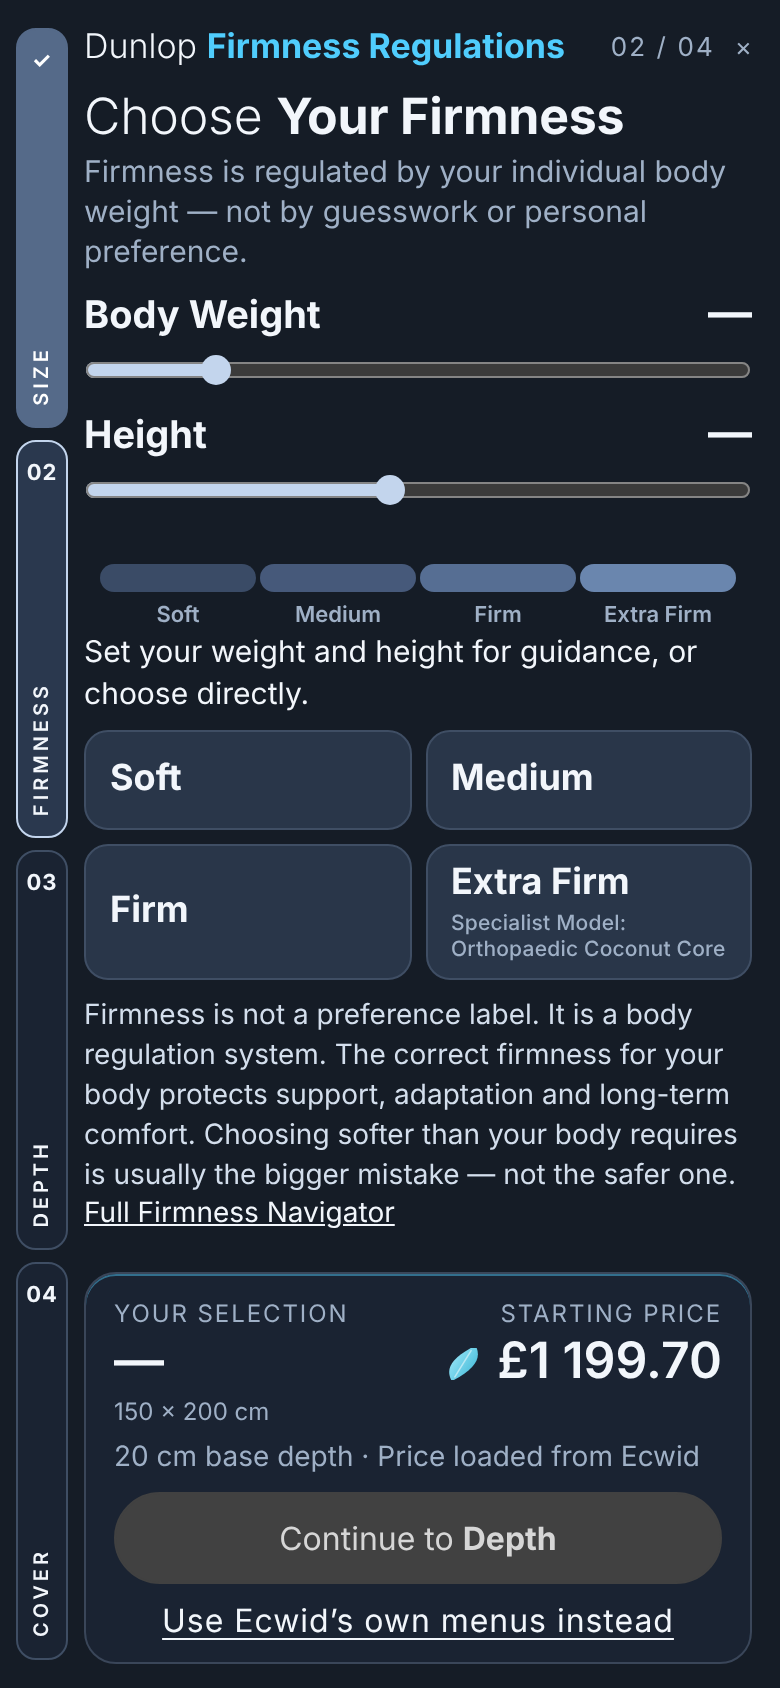
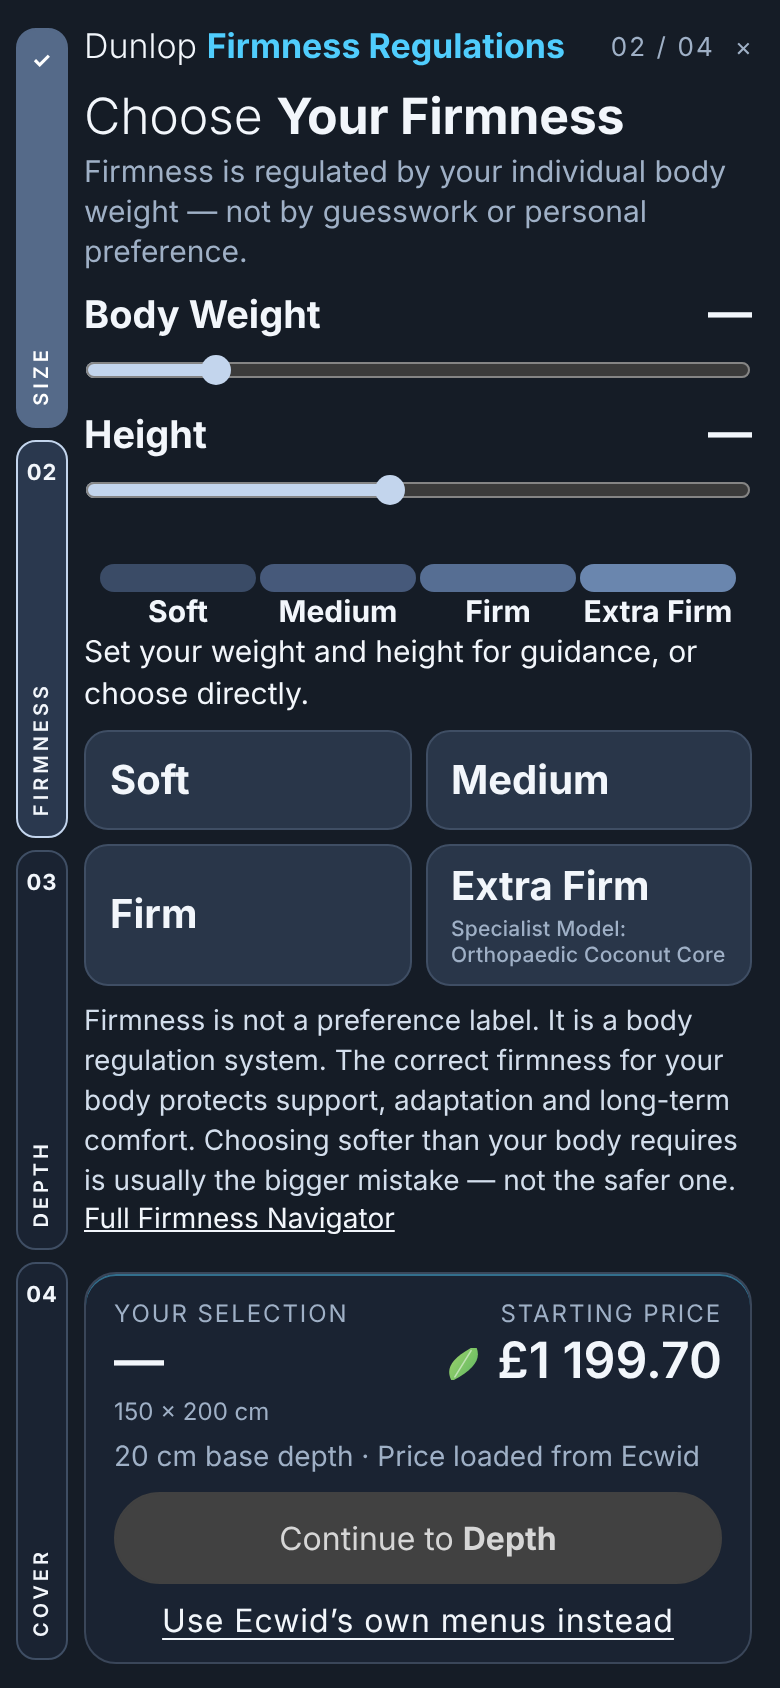
Firmness: bold, larger scale labels and cards; description journey shots (preview only)
Claude-Session: https://claude.ai/code/session_012wczzzviEvo3aPrXDTfwk1

diff --git a/experience-tv/docs/mobile/premium/preview/graphite-gradient.html b/experience-tv/docs/mobile/premium/preview/graphite-gradient.html
@@ -45,7 +45,7 @@
 /* firmness */
 .gx-fg { margin: 0 0 6px; } .gx-fg .r { display: flex; justify-content: space-between; align-items: baseline; font-size: 15px; color: var(--mut); } .gx-fg .r b { font-size: 22px; color: var(--ink); font-weight: 600; }
 .gx input[type=range] { width: 100%; height: 30px; accent-color: #C3D5ED; background: transparent; margin: 0; }
-.gx-scale { width: 100%; height: 44px; display: block; margin: 0 0 2px; } .gx-scale text { font: 600 11px var(--f); fill: var(--mut); text-anchor: middle; }
+.gx-scale { width: 100%; height: 44px; display: block; margin: 0 0 2px; } .gx-scale text { font: 700 15px var(--f); fill: var(--ink); text-anchor: middle; }
 .gx-guide { margin: 2px 0 8px; font-size: 15px; line-height: 1.35; } .gx-guide b { color: #fff; }
 .gx-2 { display: grid; grid-template-columns: 1fr 1fr; gap: 7px; }
 .gx-card { position: relative; min-height: 50px; border-radius: 12px; border: 1.5px solid var(--chip-line); background: var(--chip); font-size: 17px; font-weight: 600; text-align: left; padding: 8px 12px; }
@@ -85,10 +85,10 @@
 .gx h2.fw { font-weight: 300; } .gx h2.fw b { font-weight: 700; }
 .gx-fg .r label { font-size: 19px; font-weight: 700; color: var(--ink); }
 .gx-fg .r b { font-weight: 700; }
-.gx-2 .gx-card { font-weight: 700; font-size: 18px; }
+.gx-2 .gx-card { font-weight: 700; font-size: 20px; }
 .gx-sel .lf { width: 22px; height: 16px; vertical-align: -1px; margin-right: 6px; }
-@media (max-height: 780px) { .gx-fg .r label { font-size: 17px; } .gx-2 .gx-card { font-size: 16.5px; } .gx-top b.fr { font-size: 16px; } }
-@media (max-height: 690px) { .gx-fg .r label { font-size: 15.5px; } .gx-2 .gx-card { font-size: 15px; } .gx-top b.fr { font-size: 14.5px; } .gx-sel .lf { width: 18px; height: 13px; } }
+@media (max-height: 780px) { .gx-fg .r label { font-size: 17px; } .gx-2 .gx-card { font-size: 18px; } .gx-top b.fr { font-size: 16px; } }
+@media (max-height: 690px) { .gx-fg .r label { font-size: 15.5px; } .gx-2 .gx-card { font-size: 16.5px; } .gx-top b.fr { font-size: 14.5px; } .gx-sel .lf { width: 18px; height: 13px; } }
 
 /* turquoise accent, kept small: a hairline on the dock edge (the steps stay as approved) */
 .gx-dock--firm { box-shadow: inset 0 1px 0 rgba(80, 205, 253, .45); }

diff --git a/experience-tv/docs/mobile/premium/preview/graphite-hybrid.html b/experience-tv/docs/mobile/premium/preview/graphite-hybrid.html
@@ -45,7 +45,7 @@
 /* firmness */
 .gx-fg { margin: 0 0 6px; } .gx-fg .r { display: flex; justify-content: space-between; align-items: baseline; font-size: 15px; color: var(--mut); } .gx-fg .r b { font-size: 22px; color: var(--ink); font-weight: 600; }
 .gx input[type=range] { width: 100%; height: 30px; accent-color: #C3D5ED; background: transparent; margin: 0; }
-.gx-scale { width: 100%; height: 44px; display: block; margin: 0 0 2px; } .gx-scale text { font: 600 11px var(--f); fill: var(--mut); text-anchor: middle; }
+.gx-scale { width: 100%; height: 44px; display: block; margin: 0 0 2px; } .gx-scale text { font: 700 15px var(--f); fill: var(--ink); text-anchor: middle; }
 .gx-guide { margin: 2px 0 8px; font-size: 15px; line-height: 1.35; } .gx-guide b { color: #fff; }
 .gx-2 { display: grid; grid-template-columns: 1fr 1fr; gap: 7px; }
 .gx-card { position: relative; min-height: 50px; border-radius: 12px; border: 1.5px solid var(--chip-line); background: var(--chip); font-size: 17px; font-weight: 600; text-align: left; padding: 8px 12px; }
@@ -85,10 +85,10 @@
 .gx h2.fw { font-weight: 300; } .gx h2.fw b { font-weight: 700; }
 .gx-fg .r label { font-size: 19px; font-weight: 700; color: var(--ink); }
 .gx-fg .r b { font-weight: 700; }
-.gx-2 .gx-card { font-weight: 700; font-size: 18px; }
+.gx-2 .gx-card { font-weight: 700; font-size: 20px; }
 .gx-sel .lf { width: 22px; height: 16px; vertical-align: -1px; margin-right: 6px; }
-@media (max-height: 780px) { .gx-fg .r label { font-size: 17px; } .gx-2 .gx-card { font-size: 16.5px; } .gx-top b.fr { font-size: 16px; } }
-@media (max-height: 690px) { .gx-fg .r label { font-size: 15.5px; } .gx-2 .gx-card { font-size: 15px; } .gx-top b.fr { font-size: 14.5px; } .gx-sel .lf { width: 18px; height: 13px; } }
+@media (max-height: 780px) { .gx-fg .r label { font-size: 17px; } .gx-2 .gx-card { font-size: 18px; } .gx-top b.fr { font-size: 16px; } }
+@media (max-height: 690px) { .gx-fg .r label { font-size: 15.5px; } .gx-2 .gx-card { font-size: 16.5px; } .gx-top b.fr { font-size: 14.5px; } .gx-sel .lf { width: 18px; height: 13px; } }
 
 /* turquoise accent, kept small: a hairline on the dock edge (the steps stay as approved) */
 .gx-dock--firm { box-shadow: inset 0 1px 0 rgba(80, 205, 253, .45); }

diff --git a/experience-tv/docs/mobile/premium/preview/graphite-light.html b/experience-tv/docs/mobile/premium/preview/graphite-light.html
@@ -45,7 +45,7 @@
 /* firmness */
 .gx-fg { margin: 0 0 6px; } .gx-fg .r { display: flex; justify-content: space-between; align-items: baseline; font-size: 15px; color: var(--mut); } .gx-fg .r b { font-size: 22px; color: var(--ink); font-weight: 600; }
 .gx input[type=range] { width: 100%; height: 30px; accent-color: #C3D5ED; background: transparent; margin: 0; }
-.gx-scale { width: 100%; height: 44px; display: block; margin: 0 0 2px; } .gx-scale text { font: 600 11px var(--f); fill: var(--mut); text-anchor: middle; }
+.gx-scale { width: 100%; height: 44px; display: block; margin: 0 0 2px; } .gx-scale text { font: 700 15px var(--f); fill: var(--ink); text-anchor: middle; }
 .gx-guide { margin: 2px 0 8px; font-size: 15px; line-height: 1.35; } .gx-guide b { color: #fff; }
 .gx-2 { display: grid; grid-template-columns: 1fr 1fr; gap: 7px; }
 .gx-card { position: relative; min-height: 50px; border-radius: 12px; border: 1.5px solid var(--chip-line); background: var(--chip); font-size: 17px; font-weight: 600; text-align: left; padding: 8px 12px; }
@@ -85,10 +85,10 @@
 .gx h2.fw { font-weight: 300; } .gx h2.fw b { font-weight: 700; }
 .gx-fg .r label { font-size: 19px; font-weight: 700; color: var(--ink); }
 .gx-fg .r b { font-weight: 700; }
-.gx-2 .gx-card { font-weight: 700; font-size: 18px; }
+.gx-2 .gx-card { font-weight: 700; font-size: 20px; }
 .gx-sel .lf { width: 22px; height: 16px; vertical-align: -1px; margin-right: 6px; }
-@media (max-height: 780px) { .gx-fg .r label { font-size: 17px; } .gx-2 .gx-card { font-size: 16.5px; } .gx-top b.fr { font-size: 16px; } }
-@media (max-height: 690px) { .gx-fg .r label { font-size: 15.5px; } .gx-2 .gx-card { font-size: 15px; } .gx-top b.fr { font-size: 14.5px; } .gx-sel .lf { width: 18px; height: 13px; } }
+@media (max-height: 780px) { .gx-fg .r label { font-size: 17px; } .gx-2 .gx-card { font-size: 18px; } .gx-top b.fr { font-size: 16px; } }
+@media (max-height: 690px) { .gx-fg .r label { font-size: 15.5px; } .gx-2 .gx-card { font-size: 16.5px; } .gx-top b.fr { font-size: 14.5px; } .gx-sel .lf { width: 18px; height: 13px; } }
 
 /* turquoise accent, kept small: a hairline on the dock edge (the steps stay as approved) */
 .gx-dock--firm { box-shadow: inset 0 1px 0 rgba(80, 205, 253, .45); }

diff --git a/experience-tv/docs/mobile/premium/preview/graphite-turquoise.html b/experience-tv/docs/mobile/premium/preview/graphite-turquoise.html
@@ -45,7 +45,7 @@
 /* firmness */
 .gx-fg { margin: 0 0 6px; } .gx-fg .r { display: flex; justify-content: space-between; align-items: baseline; font-size: 15px; color: var(--mut); } .gx-fg .r b { font-size: 22px; color: var(--ink); font-weight: 600; }
 .gx input[type=range] { width: 100%; height: 30px; accent-color: #C3D5ED; background: transparent; margin: 0; }
-.gx-scale { width: 100%; height: 44px; display: block; margin: 0 0 2px; } .gx-scale text { font: 600 11px var(--f); fill: var(--mut); text-anchor: middle; }
+.gx-scale { width: 100%; height: 44px; display: block; margin: 0 0 2px; } .gx-scale text { font: 700 15px var(--f); fill: var(--ink); text-anchor: middle; }
 .gx-guide { margin: 2px 0 8px; font-size: 15px; line-height: 1.35; } .gx-guide b { color: #fff; }
 .gx-2 { display: grid; grid-template-columns: 1fr 1fr; gap: 7px; }
 .gx-card { position: relative; min-height: 50px; border-radius: 12px; border: 1.5px solid var(--chip-line); background: var(--chip); font-size: 17px; font-weight: 600; text-align: left; padding: 8px 12px; }
@@ -85,10 +85,10 @@
 .gx h2.fw { font-weight: 300; } .gx h2.fw b { font-weight: 700; }
 .gx-fg .r label { font-size: 19px; font-weight: 700; color: var(--ink); }
 .gx-fg .r b { font-weight: 700; }
-.gx-2 .gx-card { font-weight: 700; font-size: 18px; }
+.gx-2 .gx-card { font-weight: 700; font-size: 20px; }
 .gx-sel .lf { width: 22px; height: 16px; vertical-align: -1px; margin-right: 6px; }
-@media (max-height: 780px) { .gx-fg .r label { font-size: 17px; } .gx-2 .gx-card { font-size: 16.5px; } .gx-top b.fr { font-size: 16px; } }
-@media (max-height: 690px) { .gx-fg .r label { font-size: 15.5px; } .gx-2 .gx-card { font-size: 15px; } .gx-top b.fr { font-size: 14.5px; } .gx-sel .lf { width: 18px; height: 13px; } }
+@media (max-height: 780px) { .gx-fg .r label { font-size: 17px; } .gx-2 .gx-card { font-size: 18px; } .gx-top b.fr { font-size: 16px; } }
+@media (max-height: 690px) { .gx-fg .r label { font-size: 15.5px; } .gx-2 .gx-card { font-size: 16.5px; } .gx-top b.fr { font-size: 14.5px; } .gx-sel .lf { width: 18px; height: 13px; } }
 
 /* turquoise accent, kept small: a hairline on the dock edge (the steps stay as approved) */
 .gx-dock--firm { box-shadow: inset 0 1px 0 rgba(80, 205, 253, .45); }

diff --git a/experience-tv/docs/mobile/premium/preview/graphite.html b/experience-tv/docs/mobile/premium/preview/graphite.html
@@ -45,7 +45,7 @@
 /* firmness */
 .gx-fg { margin: 0 0 6px; } .gx-fg .r { display: flex; justify-content: space-between; align-items: baseline; font-size: 15px; color: var(--mut); } .gx-fg .r b { font-size: 22px; color: var(--ink); font-weight: 600; }
 .gx input[type=range] { width: 100%; height: 30px; accent-color: #C3D5ED; background: transparent; margin: 0; }
-.gx-scale { width: 100%; height: 44px; display: block; margin: 0 0 2px; } .gx-scale text { font: 600 11px var(--f); fill: var(--mut); text-anchor: middle; }
+.gx-scale { width: 100%; height: 44px; display: block; margin: 0 0 2px; } .gx-scale text { font: 700 15px var(--f); fill: var(--ink); text-anchor: middle; }
 .gx-guide { margin: 2px 0 8px; font-size: 15px; line-height: 1.35; } .gx-guide b { color: #fff; }
 .gx-2 { display: grid; grid-template-columns: 1fr 1fr; gap: 7px; }
 .gx-card { position: relative; min-height: 50px; border-radius: 12px; border: 1.5px solid var(--chip-line); background: var(--chip); font-size: 17px; font-weight: 600; text-align: left; padding: 8px 12px; }
@@ -85,10 +85,10 @@
 .gx h2.fw { font-weight: 300; } .gx h2.fw b { font-weight: 700; }
 .gx-fg .r label { font-size: 19px; font-weight: 700; color: var(--ink); }
 .gx-fg .r b { font-weight: 700; }
-.gx-2 .gx-card { font-weight: 700; font-size: 18px; }
+.gx-2 .gx-card { font-weight: 700; font-size: 20px; }
 .gx-sel .lf { width: 22px; height: 16px; vertical-align: -1px; margin-right: 6px; }
-@media (max-height: 780px) { .gx-fg .r label { font-size: 17px; } .gx-2 .gx-card { font-size: 16.5px; } .gx-top b.fr { font-size: 16px; } }
-@media (max-height: 690px) { .gx-fg .r label { font-size: 15.5px; } .gx-2 .gx-card { font-size: 15px; } .gx-top b.fr { font-size: 14.5px; } .gx-sel .lf { width: 18px; height: 13px; } }
+@media (max-height: 780px) { .gx-fg .r label { font-size: 17px; } .gx-2 .gx-card { font-size: 18px; } .gx-top b.fr { font-size: 16px; } }
+@media (max-height: 690px) { .gx-fg .r label { font-size: 15.5px; } .gx-2 .gx-card { font-size: 16.5px; } .gx-top b.fr { font-size: 14.5px; } .gx-sel .lf { width: 18px; height: 13px; } }
 
 /* turquoise accent, kept small: a hairline on the dock edge (the steps stay as approved) */
 .gx-dock--firm { box-shadow: inset 0 1px 0 rgba(80, 205, 253, .45); }

diff --git a/experience-tv/docs/mobile/premium/src/graphite.css b/experience-tv/docs/mobile/premium/src/graphite.css
@@ -44,7 +44,7 @@
 /* firmness */
 .gx-fg { margin: 0 0 6px; } .gx-fg .r { display: flex; justify-content: space-between; align-items: baseline; font-size: 15px; color: var(--mut); } .gx-fg .r b { font-size: 22px; color: var(--ink); font-weight: 600; }
 .gx input[type=range] { width: 100%; height: 30px; accent-color: #C3D5ED; background: transparent; margin: 0; }
-.gx-scale { width: 100%; height: 44px; display: block; margin: 0 0 2px; } .gx-scale text { font: 600 11px var(--f); fill: var(--mut); text-anchor: middle; }
+.gx-scale { width: 100%; height: 44px; display: block; margin: 0 0 2px; } .gx-scale text { font: 700 15px var(--f); fill: var(--ink); text-anchor: middle; }
 .gx-guide { margin: 2px 0 8px; font-size: 15px; line-height: 1.35; } .gx-guide b { color: #fff; }
 .gx-2 { display: grid; grid-template-columns: 1fr 1fr; gap: 7px; }
 .gx-card { position: relative; min-height: 50px; border-radius: 12px; border: 1.5px solid var(--chip-line); background: var(--chip); font-size: 17px; font-weight: 600; text-align: left; padding: 8px 12px; }
@@ -84,10 +84,10 @@
 .gx h2.fw { font-weight: 300; } .gx h2.fw b { font-weight: 700; }
 .gx-fg .r label { font-size: 19px; font-weight: 700; color: var(--ink); }
 .gx-fg .r b { font-weight: 700; }
-.gx-2 .gx-card { font-weight: 700; font-size: 18px; }
+.gx-2 .gx-card { font-weight: 700; font-size: 20px; }
 .gx-sel .lf { width: 22px; height: 16px; vertical-align: -1px; margin-right: 6px; }
-@media (max-height: 780px) { .gx-fg .r label { font-size: 17px; } .gx-2 .gx-card { font-size: 16.5px; } .gx-top b.fr { font-size: 16px; } }
-@media (max-height: 690px) { .gx-fg .r label { font-size: 15.5px; } .gx-2 .gx-card { font-size: 15px; } .gx-top b.fr { font-size: 14.5px; } .gx-sel .lf { width: 18px; height: 13px; } }
+@media (max-height: 780px) { .gx-fg .r label { font-size: 17px; } .gx-2 .gx-card { font-size: 18px; } .gx-top b.fr { font-size: 16px; } }
+@media (max-height: 690px) { .gx-fg .r label { font-size: 15.5px; } .gx-2 .gx-card { font-size: 16.5px; } .gx-top b.fr { font-size: 14.5px; } .gx-sel .lf { width: 18px; height: 13px; } }
 
 /* turquoise accent, kept small: a hairline on the dock edge (the steps stay as approved) */
 .gx-dock--firm { box-shadow: inset 0 1px 0 rgba(80, 205, 253, .45); }
